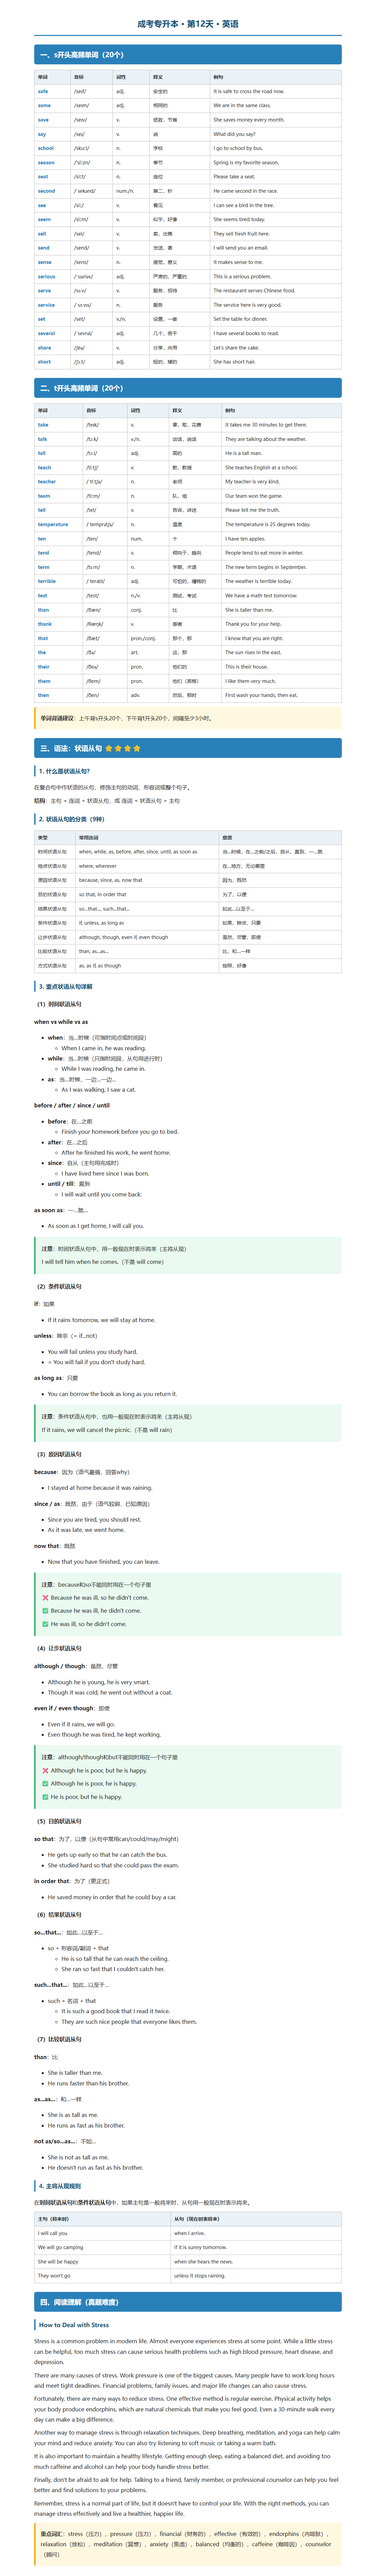
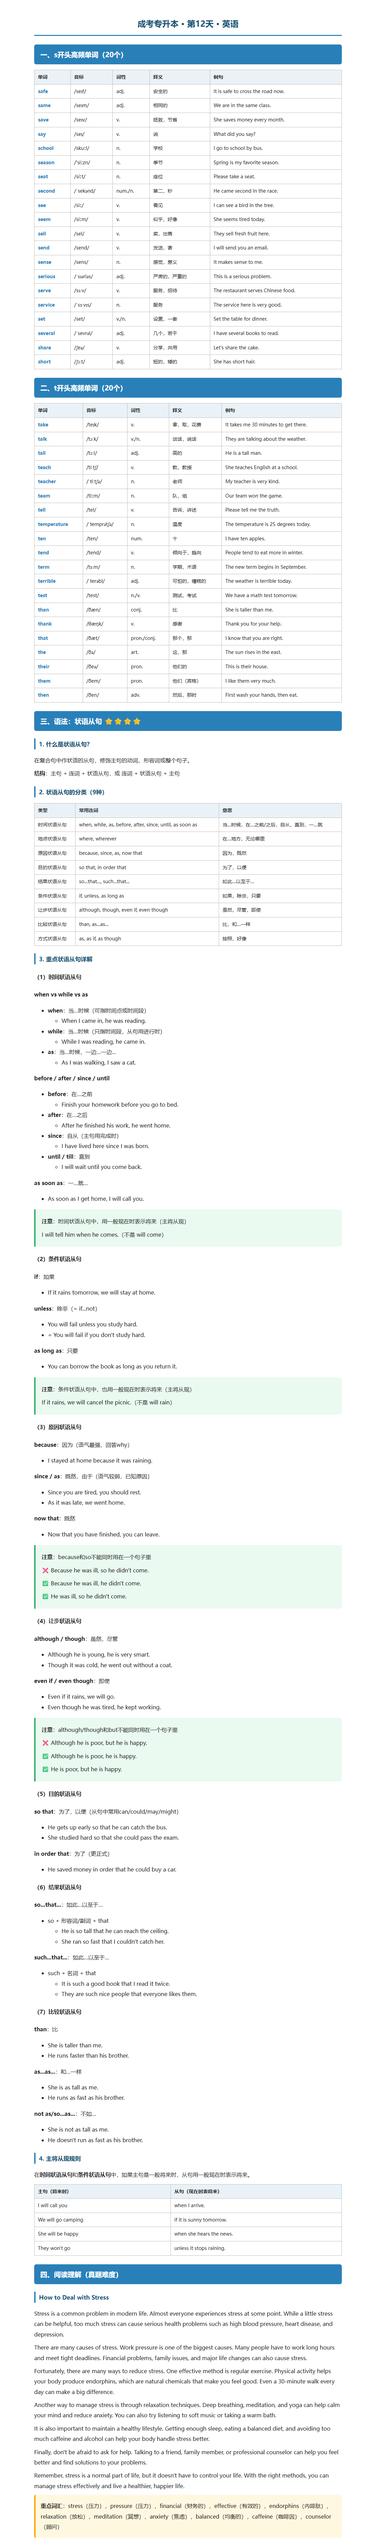
docs: 删除英语笔记中的背诵建议内容

Changed region(s): [[0.0927, 0.0, 0.9273, 0.997], [0.34, 0.8413, 0.3709, 0.8724]]

diff --git a/content/ck-notes/classes/第12天_英语.html b/content/ck-notes/classes/第12天_英语.html
@@ -83,10 +83,6 @@ p { margin: 8px 0; }
 <tr><td>then</td><td>/ðen/</td><td>adv.</td><td>然后，那时</td><td>First wash your hands, then eat.</td></tr>
 </table>
 
-<div class="note">
-<p><strong>单词背诵建议</strong>：上午背s开头20个，下午背t开头20个，间隔至少3小时。</p>
-</div>
-
 <h2 class="subject">三、语法：状语从句 ⭐⭐⭐⭐</h2>
 
 <h3>1. 什么是状语从句？</h3>
